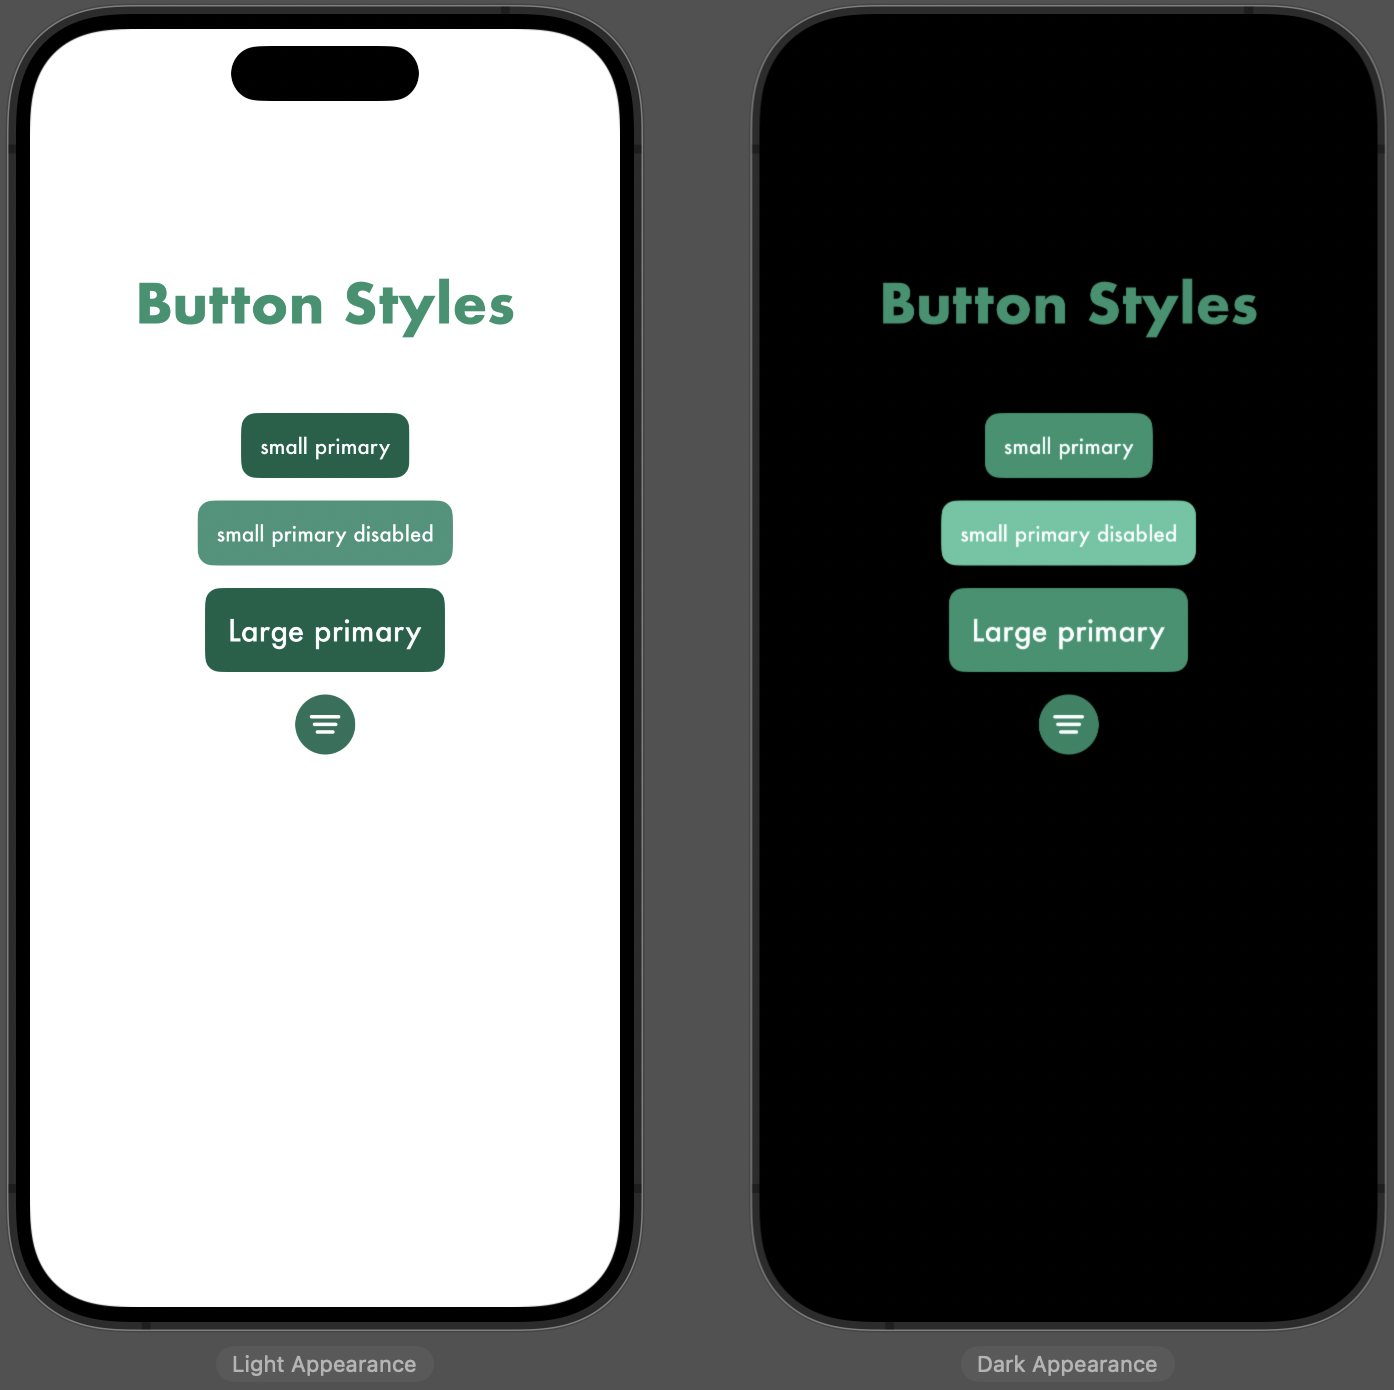
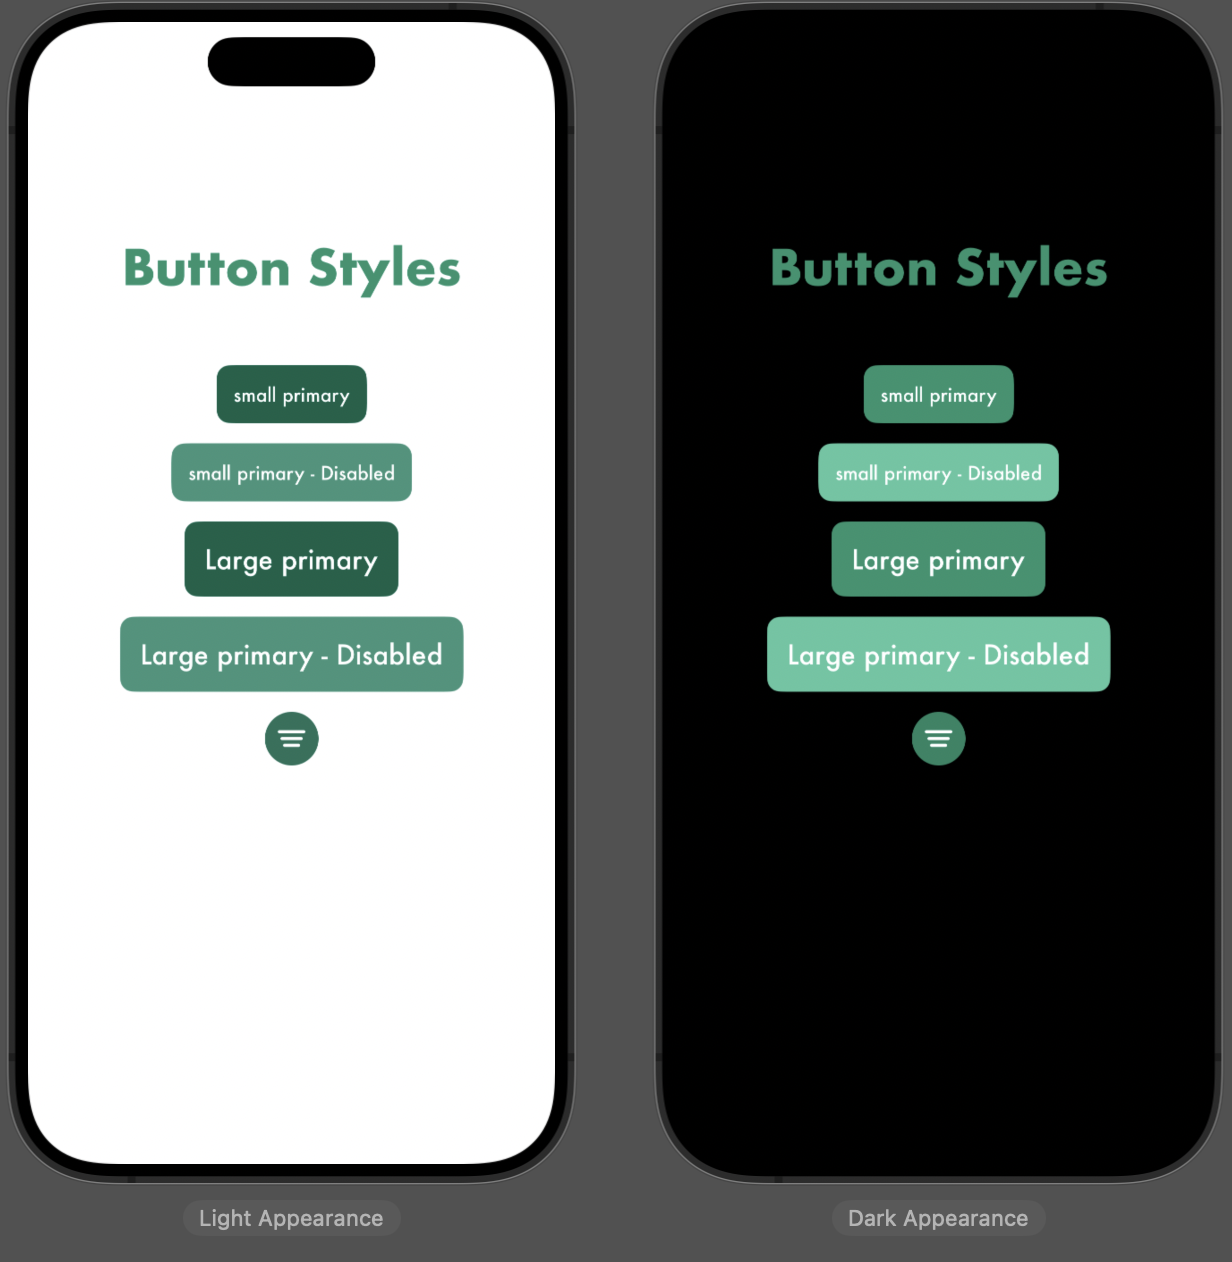
[config] Organize style guides

diff --git a/FlavorFlash/Config/StyleGuide/ToggleStyles.swift b/FlavorFlash/Config/StyleGuide/ToggleStyles.swift
@@ -11,17 +11,24 @@ struct ToggleStyles: View {
 	@State private var isOn = false
 
 	var body: some View {
-		VStack {
+		VStack(spacing: 40) {
 			Text("Toggle Styles")
+				.titleStyle()
+				.foregroundStyle(.lightGreen)
+				.padding(.top, 100)
 
-			Toggle("toggle", isOn: .constant(true))
-				.toggleStyle(PrimaryToggleStyle(isLabelHidden: true))
+			VStack(spacing: 50) {
+				Toggle("toggle On", isOn: .constant(true))
+					.toggleStyle(PrimaryToggleStyle(isLabelHidden: false))
 
-			Toggle("toggle", isOn: .constant(false))
-				.toggleStyle(PrimaryToggleStyle(isLabelHidden: true))
+				Toggle("toggle Off", isOn: .constant(false))
+					.toggleStyle(PrimaryToggleStyle(isLabelHidden: false))
 
-			Toggle("toggle", isOn: $isOn)
-				.toggleStyle(PrimaryToggleStyle(isLabelHidden: true))
+//				Toggle("toggle", isOn: $isOn)
+//					.toggleStyle(PrimaryToggleStyle(isLabelHidden: true))
+			}.frame(width: 150)
+
+			Spacer()
 		}
 	}
 }
@@ -35,7 +42,7 @@ struct PrimaryToggleStyle: ToggleStyle {
 	let size: CGFloat
 
 	var backgroundColor: Color {
-		colorScheme == .light ? Color(.middleYellow) : Color(.lightGreen)
+		colorScheme == .light ? Color(.darkGreen) : Color(.lightGreen)
 	}
 
 	init(isLabelHidden: Bool = false, size: CGFloat = 20.0) {
@@ -56,6 +63,7 @@ struct PrimaryToggleStyle: ToggleStyle {
 				if configuration.isOn {
 					Text("on")
 						.detailBoldStyle()
+						.foregroundStyle(.white)
 						.frame(width: size, height: size)
 				}
 

diff --git a/FlavorFlash/Config/StyleGuide/CornerRadiusStyles.swift b/FlavorFlash/Config/StyleGuide/CornerRadiusStyles.swift
@@ -8,15 +8,46 @@
 import SwiftUI
 
 struct CornerRadiusStyles: View {
+	@Environment(\.colorScheme) var colorScheme
+
 	var body: some View {
 		VStack {
 			Text("CornerRadius Styles")
+				.titleStyle()
+				.foregroundStyle(.lightGreen)
+				.padding(.top, 100)
 
-			Text("cornerRadius")
-				.padding()
-				.background(.orange)
-				.roundedRectRadius(20)
+			VStack(spacing: 20) {
+				Text("cornerRadius 10")
+					.bodyStyle()
+					.foregroundStyle(.white)
+					.padding()
+					.background(.lightGreen)
+					.roundedRectRadius(10)
 
+				Text("cornerRadius 20")
+					.bodyStyle()
+					.foregroundStyle(.white)
+					.padding()
+					.background(.lightGreen)
+					.roundedRectRadius(20)
+
+				Text("cornerRadius 30")
+					.bodyStyle()
+					.foregroundStyle(.white)
+					.padding()
+					.background(.lightGreen)
+					.roundedRectRadius(30)
+
+				Text("cornerRadius 40")
+					.bodyStyle()
+					.foregroundStyle(.white)
+					.padding()
+					.background(.lightGreen)
+					.roundedRectRadius(40)
+			}
+
+			Spacer()
 		}
 	}
 }

diff --git a/FlavorFlash/Config/StyleGuide/ButtonStyles.swift b/FlavorFlash/Config/StyleGuide/ButtonStyles.swift
@@ -26,7 +26,7 @@ struct ButtonStyles: View {
 				Button {
 
 				} label: {
-					Text("small primary disabled")
+					Text("small primary - Disabled")
 				}
 				.buttonStyle(SmallPrimaryButtonStyle())
 				.disabled(true)
@@ -37,6 +37,14 @@ struct ButtonStyles: View {
 					Text("Large primary")
 				}
 				.buttonStyle(LargePrimaryButtonStyle())
+
+				Button {
+
+				} label: {
+					Text("Large primary - Disabled")
+				}
+				.buttonStyle(LargePrimaryButtonStyle())
+				.disabled(true)
 
 				Button {
 
@@ -91,7 +99,11 @@ struct LargePrimaryButtonStyle: ButtonStyle {
 			.bodyStyle()
 			.foregroundStyle(.white)
 			.padding(15)
-			.background(RoundedRectangle(cornerRadius: 10.0).fill(backgroundColor))
+			.background(
+				RoundedRectangle(cornerRadius: 10.0)
+					.fill(backgroundColor)
+					.brightness(isEnabled ? 0 : 0.2)
+			)
 			.scaleEffect(configuration.isPressed ? 0.9 : 1)
 	}
 }

diff --git a/FlavorFlash/Config/StyleGuide/ShadowStyles.swift b/FlavorFlash/Config/StyleGuide/ShadowStyles.swift
@@ -12,11 +12,15 @@ struct ShadowStyles: View {
 		VStack {
 			Text("Shadow Styles")
 				.titleStyle()
+				.foregroundStyle(.lightGreen)
+				.padding(.top, 100)
 
 			Color("AccentColor")
 				.frame(width: 100, height: 100)
 				.clipShape(RoundedRectangle(cornerRadius: 10.0))
 				.lightWeightShadow()
+
+			Spacer()
 		}
     }
 }
